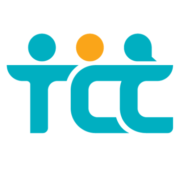
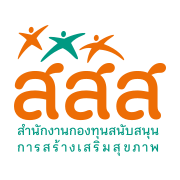
Replace TCC branding with ThaiHealth
Use ThaiHealth as the sole visible identity across the header and browser icons, remove the former TCC logo, update the public reference prefix, and preserve the internal rubric version for Firestore compatibility.

diff --git a/app/globals.css b/app/globals.css
@@ -7,9 +7,10 @@
   --ink: #20302e;
   --muted: #5d6d69;
   --line: #d9e2de;
-  --brand: #176b6d;
-  --brand-strong: #0f5658;
-  --brand-soft: #e7f3f1;
+  --brand: #007b6d;
+  --brand-strong: #00635a;
+  --brand-soft: #e6f6f2;
+  --accent: #ed6d05;
   --amber-soft: #fff4d8;
   --danger: #a23b32;
   --focus: #0c78d4;
@@ -40,21 +41,22 @@ button:disabled { cursor: not-allowed; opacity: 0.55; }
 }
 .skip-link:focus { top: 12px; }
 
-.app-header { border-bottom: 1px solid #0b4d4f; background: var(--brand-strong); color: white; }
+.app-header { border-bottom: 3px solid var(--accent); background: var(--brand-strong); color: white; }
 .header-inner, .page-shell { width: min(1260px, calc(100% - 48px)); margin-inline: auto; }
 .header-inner {
   display: flex; min-height: 100px; align-items: center;
   justify-content: space-between; gap: 24px;
 }
-.brand-block { display: flex; align-items: center; gap: 14px; }
+.brand-block { display: flex; min-width: 0; align-items: center; gap: 14px; }
 .brand-link { color: inherit; text-decoration: none; }
 .brand-mark {
-  display: grid; width: 124px; height: 76px; flex: 0 0 auto; place-items: center;
+  display: grid; width: 92px; height: 82px; flex: 0 0 auto; place-items: center;
   overflow: hidden; border: 1px solid rgba(255,255,255,.72); border-radius: 12px;
-  background: white; padding: 5px;
+  background: white; padding: 7px;
 }
 .brand-mark img { display: block; width: 100%; height: 100%; object-fit: contain; }
-.brand-title { margin: 0; font-size: 20px; font-weight: 600; line-height: 1.4; }
+.brand-agency { margin: 0 0 1px; color: #ffd7b0; font-size: 13px; font-weight: 600; line-height: 1.35; }
+.brand-title { margin: 0; font-size: 19px; font-weight: 600; line-height: 1.4; }
 .brand-subtitle { margin: 2px 0 0; color: #d8edeb; font-size: 14px; }
 .help-link {
   border: 1px solid rgba(255,255,255,.55); border-radius: 10px;
@@ -561,9 +563,10 @@ th { background: var(--surface-soft); color: var(--muted); font-size: 15px; }
   body { font-size: 17px; }
   .header-inner, .page-shell { width: min(100% - 28px,1260px); }
   .header-inner { min-height: 68px; }
-  .brand-mark { width: 96px; height: 62px; padding: 4px; }
-  .brand-subtitle, .help-link { display: none; }
+  .brand-mark { width: 76px; height: 68px; padding: 5px; }
+  .brand-agency, .brand-subtitle, .help-link { display: none; }
   .header-inner { align-items: flex-start; flex-direction: column; gap: 8px; padding-block: 11px; }
+  .brand-block { min-width: 0; gap: 10px; }
   .main-nav { width: 100%; overflow-x: auto; }
   .main-nav button, .main-nav a { flex: 1; white-space: nowrap; }
   .intro { gap: 18px; border-radius: 14px; padding: 20px 17px; }
@@ -599,6 +602,11 @@ th { background: var(--surface-soft); color: var(--muted); font-size: 15px; }
   .item-result-top { grid-template-columns: 1fr; }
   .item-score { width: fit-content; }
   .footer-inner { width: min(100% - 28px,1260px); min-height: auto; }
+}
+
+@media (max-width: 420px) {
+  .brand-mark { width: 64px; height: 58px; }
+  .brand-title { font-size: 16px; line-height: 1.35; }
 }
 
 @media (prefers-reduced-motion: reduce) { html { scroll-behavior: auto; } }

diff --git a/components/site-header.tsx b/components/site-header.tsx
@@ -5,18 +5,23 @@ export function SiteHeader({ active }: { active: "assessment" | "dashboard" | "a
   return (
     <header className="app-header">
       <div className="header-inner">
-        <Link className="brand-block brand-link" href="/" aria-label="กลับหน้าแบบประเมิน">
+        <Link
+          className="brand-block brand-link"
+          href="/"
+          aria-label="สำนักงานกองทุนสนับสนุนการสร้างเสริมสุขภาพ กลับหน้าแบบประเมิน"
+        >
           <span className="brand-mark" aria-hidden="true">
             <img
-              src="/images/tcc-office-logo.webp"
-              width="480"
-              height="306"
+              src="/images/thaihealth-logo.webp"
+              width="720"
+              height="620"
               alt=""
               decoding="async"
             />
           </span>
           <div>
-            <p className="brand-title">การเดินทางที่ปลอดภัยของเด็กนักเรียน</p>
+            <p className="brand-agency">สำนักงานกองทุนสนับสนุนการสร้างเสริมสุขภาพ (สสส.)</p>
+            <p className="brand-title">ระบบประเมินการเดินทางที่ปลอดภัยของเด็กนักเรียน</p>
             <p className="brand-subtitle">สำรวจความพร้อม เห็นช่องว่าง และนำไปพัฒนา</p>
           </div>
         </Link>

diff --git a/firebase-spa/index.html b/firebase-spa/index.html
@@ -4,7 +4,7 @@
     <meta charset="UTF-8" />
     <meta name="viewport" content="width=device-width, initial-scale=1.0" />
     <meta name="description" content="เครื่องมือประเมินตนเองเพื่อพัฒนาความปลอดภัยในการเดินทางของเด็กนักเรียน" />
-    <meta name="theme-color" content="#0f5658" />
+    <meta name="theme-color" content="#00635a" />
     <link rel="icon" href="/favicon.ico" sizes="any" />
     <link rel="icon" href="/favicon-32x32.png" type="image/png" sizes="32x32" />
     <link rel="icon" href="/icon-192.png" type="image/png" sizes="192x192" />

diff --git a/lib/exports/dashboard-excel.ts b/lib/exports/dashboard-excel.ts
@@ -67,7 +67,7 @@ function fileDate() {
 
 function referenceCode(record: DashboardRecord) {
   const date = record.assessmentDate.replaceAll("-", "").slice(2) || "000000";
-  return `TCC-${date}-${record.id.slice(0, 6).toUpperCase()}`;
+  return `ST-${date}-${record.id.slice(0, 6).toUpperCase()}`;
 }
 
 function titleRow(value: string, columnCount: number): Cell[] {

diff --git a/components/dashboard-workspace.tsx b/components/dashboard-workspace.tsx
@@ -43,7 +43,7 @@ function formatDate(value: string) {
 
 function referenceCode(record: DashboardRecord) {
   const date = record.assessmentDate.replaceAll("-", "").slice(2) || "000000";
-  return `TCC-${date}-${record.id.slice(0, 6).toUpperCase()}`;
+  return `ST-${date}-${record.id.slice(0, 6).toUpperCase()}`;
 }
 
 export function DashboardWorkspace() {

diff --git a/app/layout.tsx b/app/layout.tsx
@@ -25,7 +25,7 @@ export const metadata: Metadata = {
 };
 
 export const viewport: Viewport = {
-  themeColor: "#0f5658",
+  themeColor: "#00635a",
 };
 
 export default function RootLayout({ children }: Readonly<{ children: React.ReactNode }>) {

diff --git a/docs/BRAND_ASSETS.md b/docs/BRAND_ASSETS.md
@@ -1,14 +1,14 @@
 # Brand assets
 
-เว็บไซต์ใช้ตราสัญลักษณ์ของสภาองค์กรของผู้บริโภคจากเว็บไซต์ทางการ โดยเก็บไฟล์ไว้ในโครงการเพื่อไม่พึ่ง hotlink และเพื่อให้ favicon ทำงานได้แม้เว็บไซต์ต้นทางไม่พร้อมใช้งาน
+ระบบใช้ตราสัญลักษณ์สำนักงานกองทุนสนับสนุนการสร้างเสริมสุขภาพ (สสส.) เป็นอัตลักษณ์หลักเพียงตราเดียวในส่วนหัว ไอคอนแท็บ และไอคอนบนอุปกรณ์พกพา เพื่อให้ผู้ใช้รับรู้หน่วยงานได้ชัดเจนและไม่สับสนกับตราขององค์กรอื่น
 
 ## แหล่งอ้างอิง
 
-- หน้าเว็บไซต์ทางการ: `https://www.tcc.or.th/document-category/announcement/`
-- Favicon 32×32: `https://www.tcc.or.th/wp-content/uploads/2022/04/cropped-logo-favicon-32x32.png`
-- Apple touch icon 180×180: `https://www.tcc.or.th/wp-content/uploads/2022/04/cropped-logo-favicon-180x180.png`
-- App icon 192×192: `https://www.tcc.or.th/wp-content/uploads/2022/04/cropped-logo-favicon-192x192.png`
+- คู่มืออัตลักษณ์ต้นทาง: `https://www.thaihealth.or.th/wp-content/uploads/2022/10/ThaiHealth-Brand-Portfolio_250722.pdf`
+- ไฟล์เวกเตอร์ที่ถอดจากคู่มืออัตลักษณ์: `https://commons.wikimedia.org/wiki/File:Emblem_of_the_Thai_Health_Promotion_Foundation.svg`
+- ไฟล์ WebP ที่ใช้ในส่วนหัว: `public/images/thaihealth-logo.webp`
+- ไฟล์ไอคอน: `public/favicon.ico`, `public/favicon-32x32.png`, `public/apple-touch-icon.png`, `public/icon-192.png` และ `public/icon-512.png`
 
-ตรวจสอบและนำมาใช้วันที่ 16 สิงหาคม 2569 ไฟล์ `favicon.ico` และ `icon-512.png` สร้างจากต้นฉบับ 192×192 โดยเปลี่ยนเฉพาะขนาดและรูปแบบไฟล์ ไม่เปลี่ยนสี สัดส่วน หรือองค์ประกอบของตรา
+ไฟล์ในระบบแปลงจากเวกเตอร์โดยคงสี สัดส่วน และองค์ประกอบเดิม ไม่เติมข้อความหรือดัดแปลงตรา ไอคอนสี่เหลี่ยมใช้พื้นหลังสีขาวและพื้นที่ว่างรอบตราเพื่อไม่ให้ส่วนประกอบถูกตัดเมื่อแสดงบนอุปกรณ์ต่าง ๆ
 
 ห้ามนำตราไปยืด บีบ เปลี่ยนสี ตัดองค์ประกอบ หรือใส่เอฟเฟกต์ที่ทำให้อัตลักษณ์ต่างจากต้นฉบับทางการ

diff --git a/README.md b/README.md
@@ -1,4 +1,4 @@
-# TCC Safe Travel Assessment
+# Safe Travel Assessment
 
 ระบบประเมินตนเองด้านการเดินทางที่ปลอดภัยของเด็กนักเรียน ตามร่างเกณฑ์วันที่ 22 มิถุนายน 2569 รองรับแบบประเมินสถานศึกษา 3 ชุด แบบประเมินหน่วยงานกำกับ 4 ประเภท และ Dashboard สำหรับเจ้าหน้าที่
 
